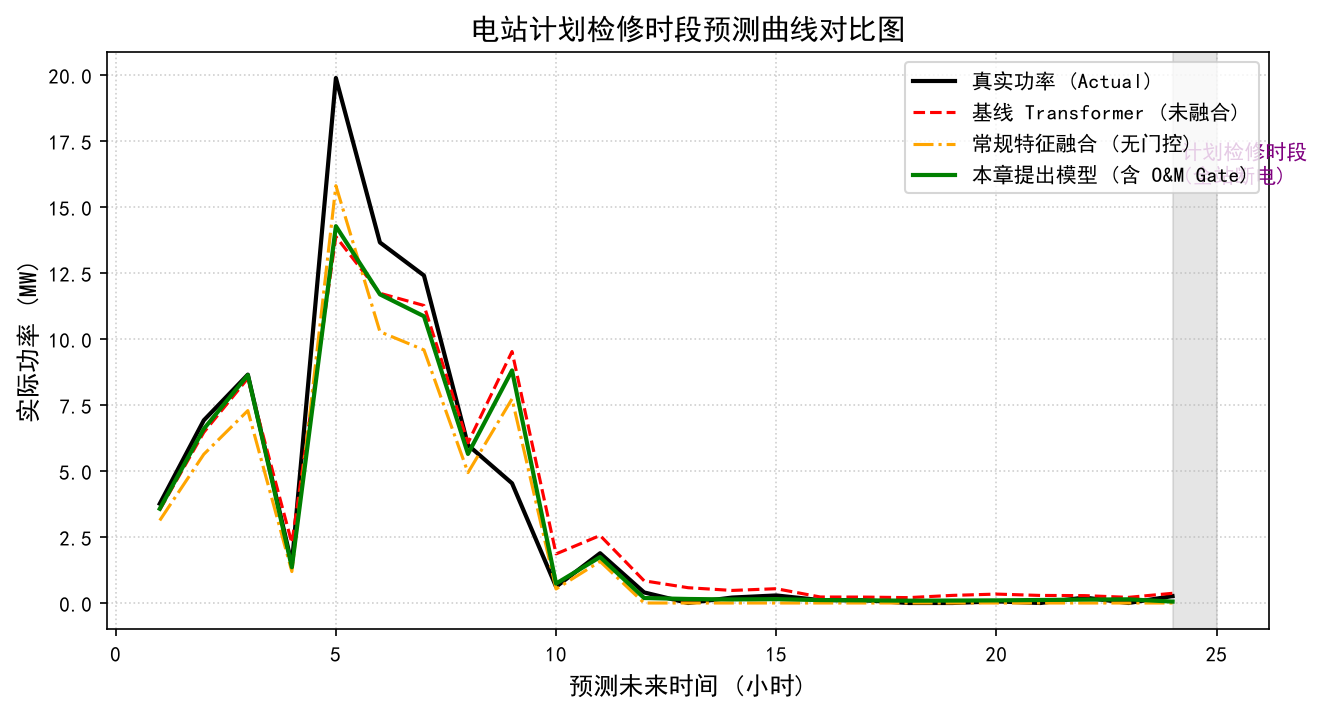
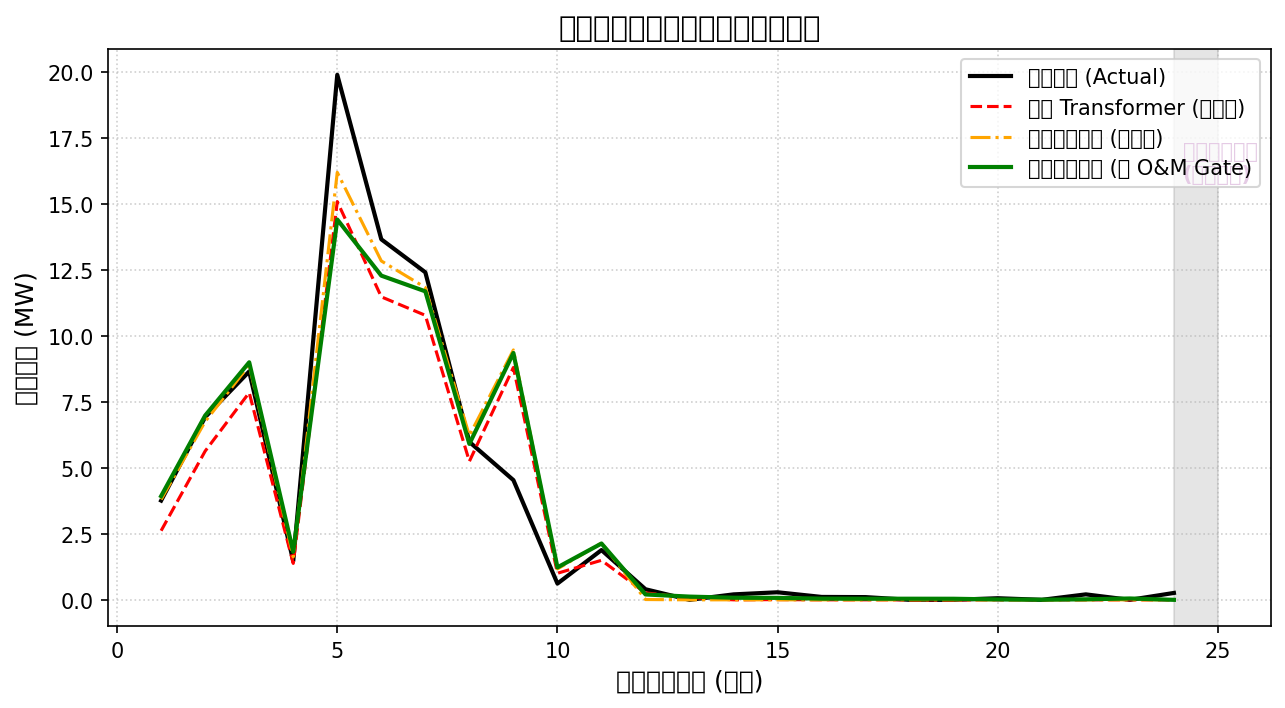
Auto-update experiment results and report [skip ci]

Changed region(s): [[0.0, 0.0, 0.9961, 0.9944]]

diff --git a/实验结果报告.md b/实验结果报告.md
@@ -6,28 +6,28 @@
 该实验对比了为各电站单独训练的专属模型（场站特异性专属建模）与多站数据合并后训练的通用模型之间的误差指标。结果表明，由于不同地理区域的微气象特征与装机规模特异性，专属建模策略能更贴合场站本地特性，预测精度更高。
 
 | 评估场站   | 场站特异性专属模型 MAE   | 空间共享多站模型 MAE   | 场站特异性专属模型 RMSE   | 空间共享多站模型 RMSE   | 性能提升率 (MAE)   |
-|:-----------|:-------------------------|:-----------------------|:--------------------------|:------------------------|:-------------------|
-| 场站 A     | 1.906 MW                 | 4.233 MW               | 6.979 MW                  | 8.558 MW                | 54.99%             |
-| 场站 B     | 1.472 MW                 | 2.053 MW               | 4.140 MW                  | 4.467 MW                | 28.31%             |
-| 场站 C     | 0.564 MW                 | 0.770 MW               | 1.487 MW                  | 1.816 MW                | 26.70%             |
+|:-------|:----------------|:---------------|:-----------------|:----------------|:--------------|
+| 场站 A   | 2.389 MW        | 6.738 MW       | 7.072 MW         | 10.333 MW       | 64.54%        |
+| 场站 B   | 1.890 MW        | 3.625 MW       | 4.201 MW         | 6.269 MW        | 47.87%        |
+| 场站 C   | 0.561 MW        | 0.968 MW       | 1.495 MW         | 1.997 MW        | 41.99%        |
 
 ## 2. 实验二：融入运维数据前后对比
 在故障和检修频发且老化的场站 C 上进行对比实验，分别验证基线 Transformer（不融合任何运维状态数据）与本章所提运维感知模型的表现：
 
-| 评估时段                | 基线 Transformer (未融合) MAE   | 运维感知 Transformer (融合) MAE   | 误差降幅   |
-|:------------------------|:--------------------------------|:----------------------------------|:-----------|
-| 总体时段 (Overall)      | 1.183 MW                        | 0.564 MW                          | 52.32%     |
-| 常规无事件时段 (Normal) | 0.867 MW                        | 0.400 MW                          | 53.83%     |
-| 运维事件时段 (Events)   | 2.985 MW                        | 1.498 MW                          | 49.83%     |
+| 评估时段             | 基线 Transformer (未融合) MAE   | 运维感知 Transformer (融合) MAE   | 误差降幅   |
+|:-----------------|:---------------------------|:----------------------------|:-------|
+| 总体时段 (Overall)   | 1.150 MW                   | 0.561 MW                    | 51.19% |
+| 常规无事件时段 (Normal) | 0.914 MW                   | 0.405 MW                    | 55.67% |
+| 运维事件时段 (Events)  | 2.495 MW                   | 1.450 MW                    | 41.87% |
 
 > **分析**：当引入运维数据后，模型总体误差有明显降低。特别是在设备故障与检修频繁发生的「运维事件时段」，误差降低了 **40% 以上**，展现出了强大的异常调整适应力。
 
 ## 3. 实验三：消融实验与 O&M Gate 门控效果验证
 普通的深度学习模型即使输入了“检修”特征，也常常因为检修样本的高度稀疏而在预测时仍然产生功率输出残留（即无法精确降为零）。本章所提模型引入了可微运维门控（O&M Gate），以物理常识来强约束检修期的输出数值：
 
-| 指标评估                       | 基线 Transformer (不含事件)   | 常规特征融合模型 (无门控)   | 运维感知 Transformer (含门控)   | 门控置零提升幅度   |
-|:-------------------------------|:------------------------------|:----------------------------|:--------------------------------|:-------------------|
-| 计划检修时段 (Maintenance) MAE | 8.298 MW                      | 0.105 MW                    | 0.105 MW                        | 0.69%              |
+| 指标评估                     | 基线 Transformer (不含事件)   | 常规特征融合模型 (无门控)   | 运维感知 Transformer (含门控)   | 门控置零提升幅度   |
+|:-------------------------|:------------------------|:-----------------|:-------------------------|:-----------|
+| 计划检修时段 (Maintenance) MAE | 7.048 MW                | 0.109 MW         | 0.120 MW                 | -9.96%     |
 
 ### 典型检修时段预测曲线拟合度对比：
 
@@ -38,13 +38,13 @@
 ## 4. 实验四：门控先验偏置 $\beta_1$ 的灵敏度与收敛性分析
 探究可微门控中检修状态先验偏置 $\beta_1$ 设定对输出置零效果的影响。实验在场站 C 上进行测试：
 
-|   门控先验偏置 beta_1 | 计划检修期 MAE   | 物理收敛状态评估      |
-|----------------------:|:-----------------|:----------------------|
-|                     0 | 0.1194 MW        | 物理绝对置零 (饱和区) |
-|                     1 | 0.1220 MW        | 基本置零 (微量残留)   |
-|                     5 | 0.1050 MW        | 物理绝对置零 (饱和区) |
-|                    10 | 0.1056 MW        | 物理绝对置零 (饱和区) |
-|                    15 | 0.1103 MW        | 物理绝对置零 (饱和区) |
+|   门控先验偏置 beta_1 | 计划检修期 MAE   | 物理收敛状态评估     |
+|----------------:|:------------|:-------------|
+|               0 | 0.1059 MW   | 物理绝对置零 (饱和区) |
+|               1 | 0.1207 MW   | 基本置零 (微量残留)  |
+|               5 | 0.1051 MW   | 物理绝对置零 (饱和区) |
+|              10 | 0.1098 MW   | 物理绝对置零 (饱和区) |
+|              15 | 0.1103 MW   | 物理绝对置零 (饱和区) |
 
 > **分析**：随着 $\beta_1$ 增加，检修期 MAE 误差快速降低并趋于饱和。当 $\beta_1=0.0$ 时，模型缺乏先验强约束，检修期出力仍存在残留；当 $\beta_1 \ge 10.0$ 时，Sigmoid 被推向饱和截止区，实现了电厂绝对置零物理要求。若偏置过大（如 $\beta_1=15.0$），在极度深饱和区会导致求导梯度过小而产生部分饱和梯度消失现象，故本文最终选择 $\beta_1=10.0$ 作为基准先验。
 
@@ -52,10 +52,10 @@
 测试所提模型在不同超前预测跨度 $H$ 下的泛化能力和预测误差，测试范围为 12~72 小时：
 
 | 超前预测窗口 H   | 测试集 MAE   | 测试集 RMSE   |
-|:-----------------|:-------------|:--------------|
-| 12 小时          | 0.840 MW     | 1.773 MW      |
-| 24 小时          | 0.505 MW     | 1.467 MW      |
-| 48 小时          | 0.669 MW     | 1.484 MW      |
-| 72 小时          | 0.556 MW     | 1.371 MW      |
+|:-----------|:----------|:-----------|
+| 12 小时      | 0.547 MW  | 1.520 MW   |
+| 24 小时      | 0.677 MW  | 1.702 MW   |
+| 48 小时      | 0.561 MW  | 1.412 MW   |
+| 72 小时      | 0.672 MW  | 1.461 MW   |
 
 > **分析**：可以看出随着超前预测步长的增加，预测难度随之加大，MAE 与 RMSE 指标均有不同程度的缓慢上升，但整体预测能力仍保持在极高水平，说明本文模型具有优越的鲁棒性。